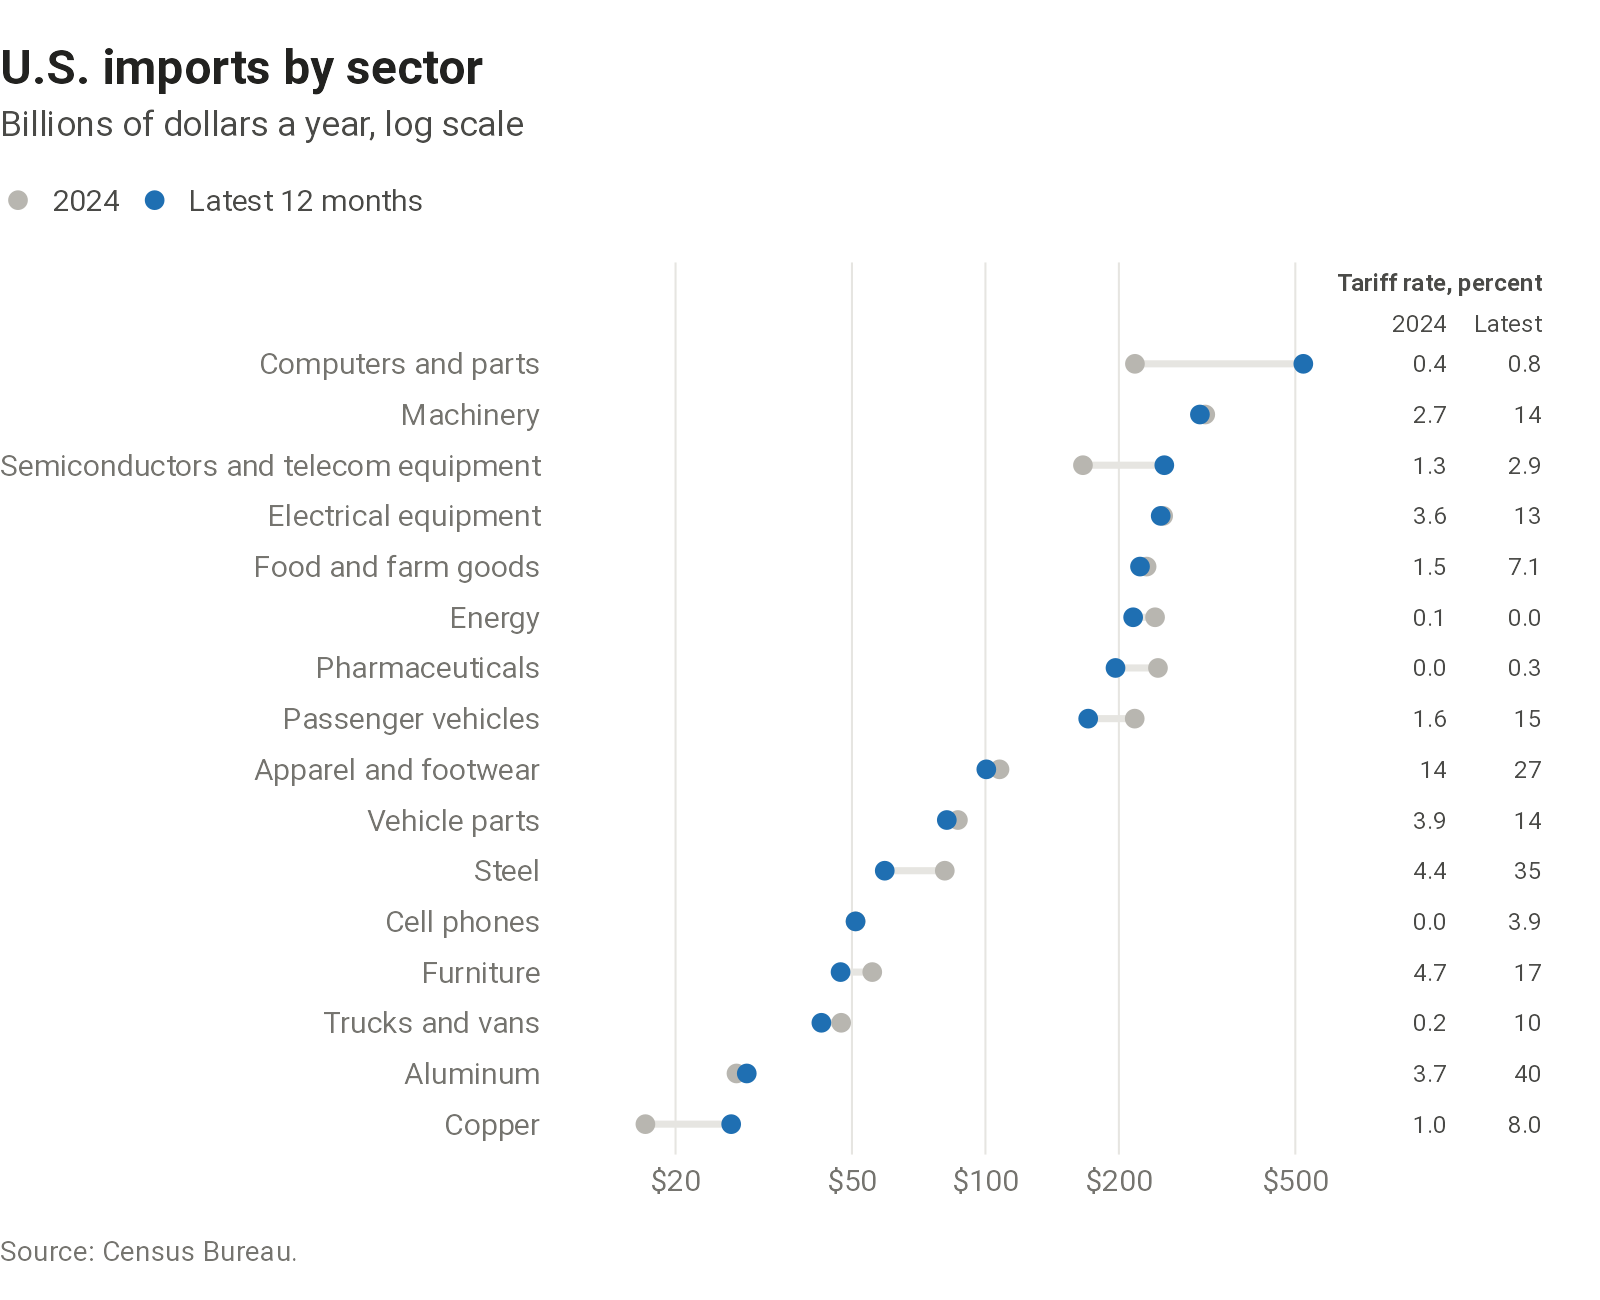
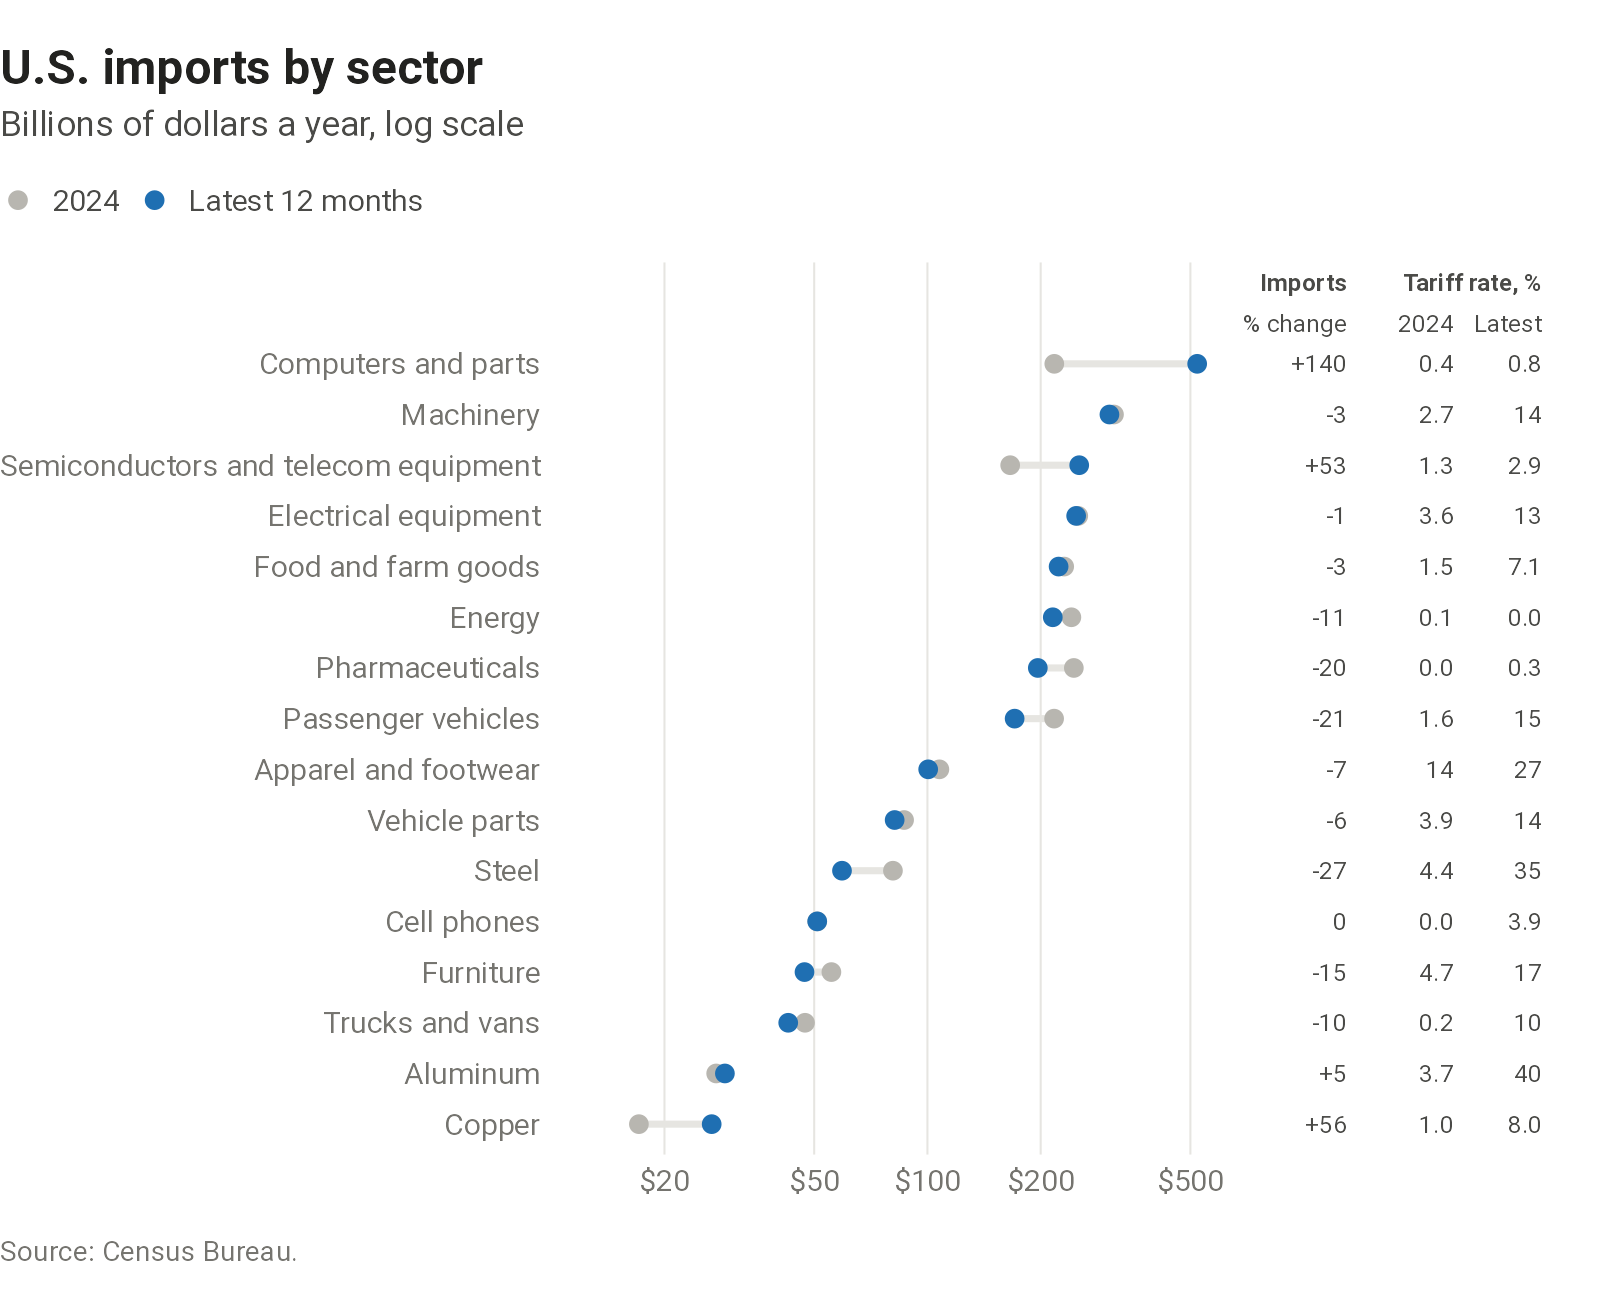
Add a column for the percent change in imports to the sector chart

diff --git a/charts/imports-by-sector/output/imports-by-sector-notes.md b/charts/imports-by-sector/output/imports-by-sector-notes.md
@@ -4,6 +4,8 @@
 
 **Latest 12 months:** Imports from August 2025 to July 2026.
 
+**Change:** Percent change in imports between the two periods.
+
 **Tariff rate:** Duties calculated on the sector's imports as a percent of their value, in the same two periods.
 
 ::: {.chart-source}
